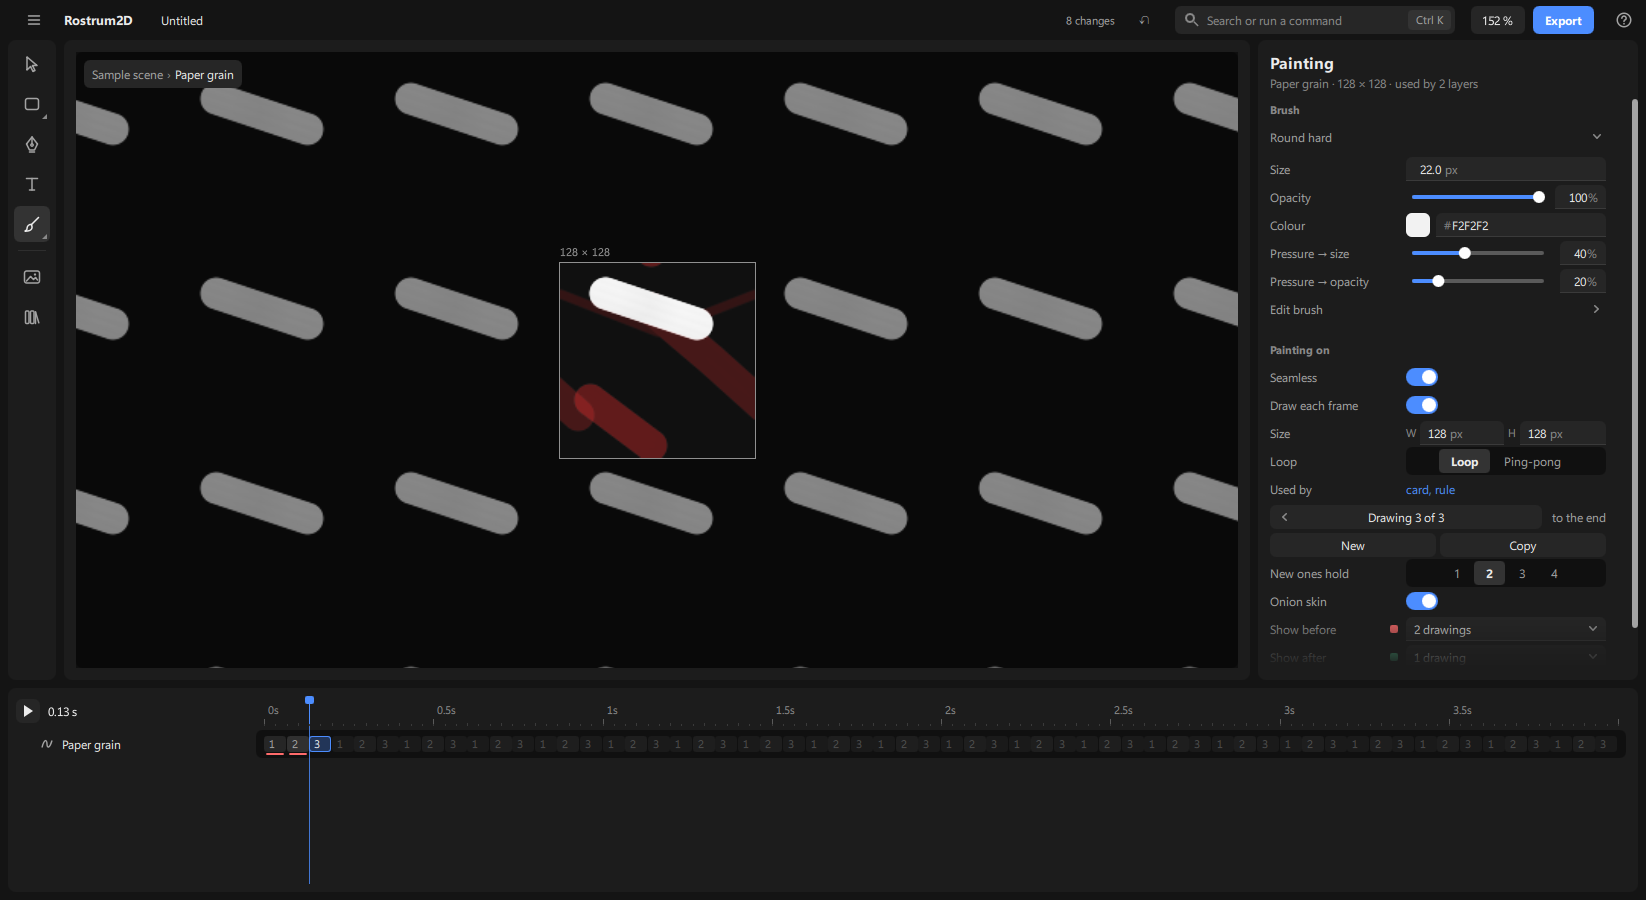
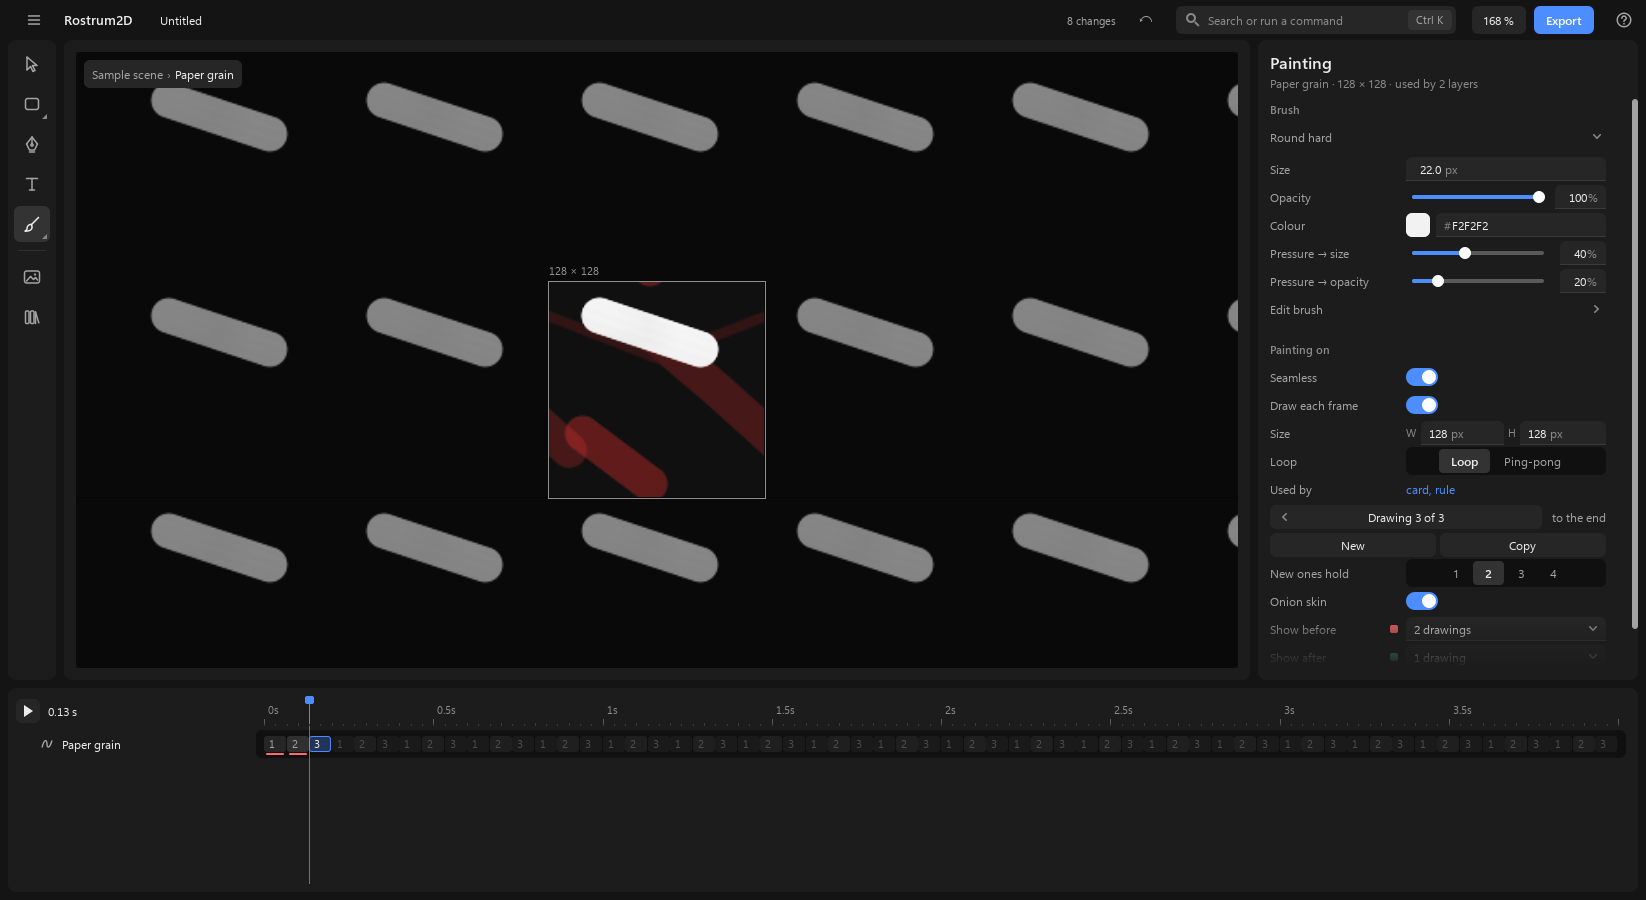
fix(2d, gui kit): a painting opened from the Library is fitted and centred in the canvas you can see, its path chip clear of the drawer and its long names end in …
The one fit (CanvasView) now keeps clear of a drawer lying over the canvas's left edge (AppShell.overLeft), for Ctrl+0, Shift+1, F and an opened painting alike; an opened painting also leaves room under its path chip. The settings panel's subtitle elides with the whole line on hover. Guides and their pictures updated.

diff --git a/apps/2d/screen/qml/Stage.qml b/apps/2d/screen/qml/Stage.qml
@@ -30,6 +30,7 @@ Rectangle {
     color: Theme.panel; radius: Theme.radiusPanel; clip: true
     objectName: "stage"                 // scripted steps reach the view through it (screen2d/view_steps.py)
     property bool typing: false         // a text field has the focus (Main.qml): single-letter view keys stay off
+    property real coverLeft: 0          // how far a drawer lies over this item's left edge (AppShell.overLeft): fits and the path chip keep clear of it
     // the context bar holds only what applies to picked strokes (StrokeBar.qml); no tool puts options or hints over the canvas
     readonly property bool strokesPicked: backend.tool === "draw" && backend.strokeSelect.count > 0
     readonly property var info: backend.frameInfo
@@ -49,8 +50,8 @@ Rectangle {
     // back to where it was when it closes
     readonly property bool opened: backend.opened.on
     property var viewBefore: null
-    function fitPainting() { const i = backend.opened.info, w = i.w || 1, h = i.h || 1
-                             if (i.seamless) view.fitBox(-w, -h, 2 * w, 2 * h); else view.fitBox(0, 0, w, h) }
+    function fitPainting() { const i = backend.opened.info, w = i.w || 1, h = i.h || 1, room = Theme.row + 4 * Theme.gap   // under the path chip and the size above it
+                             if (i.seamless) view.fitBox(-w, -h, 2 * w, 2 * h, room); else view.fitBox(0, 0, w, h, room) }
     onOpenedChanged: {
         if (opened) { viewBefore = { cx: view.cx, cy: view.cy, asked: view.asked, fitted: view.fitted }; fitPainting() }
         else if (viewBefore) { view.cx = viewBefore.cx; view.cy = viewBefore.cy; view.asked = viewBefore.asked
@@ -87,7 +88,7 @@ Rectangle {
         radius: Theme.radiusCtl; color: Theme.sunken
         clip: true
         readonly property bool drawing: backend.tool === "draw"
-        CanvasView { id: view; wellW: well.width; wellH: well.height; compW: panel.info.width || 1; compH: panel.info.height || 1
+        CanvasView { id: view; wellW: well.width; coverLeft: Math.max(0, panel.coverLeft - Theme.pad); wellH: well.height; compW: panel.info.width || 1; compH: panel.info.height || 1
                      dpr: Screen.devicePixelRatio }
 
         Item {  // world px from here: (0, 0) of the world at view.ox, oy; one world px is view.zoom screen px
@@ -423,7 +424,8 @@ Rectangle {
         ViewTools { anchors.fill: parent; view: view }   // H: drag moves the view; Z: click zooms in, Alt+click out
         Item { anchors.fill: parent; visible: !panel.opened
                FrameChip { world: worldFrame; onClicked: panel.fitAll() } }
-        PathChip { visible: panel.opened; anchors { left: parent.left; top: parent.top; margins: Theme.gap } }   // "Autumn menu › Paper grain"   // "‹ Frame": the frame is out of view; a click fits it
+        PathChip { visible: panel.opened; x: view.coverLeft + Theme.gap; y: Theme.gap   // "Autumn menu › Paper grain", right of any drawer, its long name ending in …
+                   room: well.width - x - Theme.gap }
         LookThrough { id: look; view: view }                         // "Through the frame ×", bottom-left, while on
         ContextBar {   // select, then act: the kit's bar at the top-centre (backend.actions);
                        // only while strokes are picked: what applies to them (StrokeBar.qml)

diff --git a/apps/2d/screen/qml/CanvasView.qml b/apps/2d/screen/qml/CanvasView.qml
@@ -13,7 +13,8 @@ QtObject {
     property real wellH: 0
     property real compW: 1
     property real compH: 1
-    property real top: 0                       // room kept clear above the frame at Fit (none in 2D: nothing floats there)
+    property real coverLeft: 0                 // a drawer over the well's left edge hides this much: fits use the rest (Stage: AppShell.overLeft)
+    property real top: 0                      // room kept clear above the frame at Fit (none in 2D: nothing floats there)
     readonly property real margin: 16
     readonly property real frameMargin: 24     // the frame fit's room round the frame (SPEC 2d-camera 4.1)
     readonly property real fitMost: 4          // F on a tiny layer stops at 400 % (the frame is drawn at most at Full)
@@ -37,10 +38,12 @@ QtObject {
         if (wellW <= 0 || wellH <= 0) return
         const x0 = r ? r.x0 : 0, y0 = r ? r.y0 : 0, x1 = r ? r.x1 : compW, y1 = r ? r.y1 : compH
         const w = Math.max(x1 - x0, 1), h = Math.max(y1 - y0, 1)
-        asked = clamp(Math.max(0.01, Math.min((wellW - 2 * frameMargin) / w, (wellH - 2 * frameMargin) / h)))
-        cx = (x0 + x1) / 2; cy = (y0 + y1) / 2
+        asked = clamp(Math.max(0.01, Math.min((wellW - coverLeft - 2 * frameMargin) / w, (wellH - 2 * frameMargin) / h)))
+        centreAt((x0 + x1) / 2, (y0 + y1) / 2)
         fitted = true
     }
+    // put composition point (x, y) in the middle of the part of the well no drawer covers
+    function centreAt(x, y, topRoom) { cx = x - coverLeft / 2 / asked; cy = y - (topRoom || 0) / 2 / asked }
     function fitEverything(r) { fitBox(r.x0, r.y0, r.x1, r.y1) }                  // Shift+1: every layer and the frame's path
     // zoom to `z`, keeping the composition point under (px, py) (well px) where it is
     function zoomAt(z, px, py) {
@@ -52,11 +55,11 @@ QtObject {
     function show(z) { zoomAt(z, wellW / 2, wellH / 2) }                       // keeps the centre
     function centreOn(x, y) { hold(); cx = x; cy = y }                           // composition px
     function panBy(dx, dy) { hold(); cx -= dx / zoom; cy -= dy / zoom }          // screen px
-    function fitBox(x0, y0, x1, y1) {                                            // composition px
+    function fitBox(x0, y0, x1, y1, topRoom) {                                   // composition px; topRoom: screen px kept clear above (a chip)
         const w = Math.max(x1 - x0, 1), h = Math.max(y1 - y0, 1)
         hold()
-        asked = clamp(Math.min((wellW - 2 * margin) / w, (wellH - 2 * margin) / h, fitMost))
-        cx = (x0 + x1) / 2; cy = (y0 + y1) / 2
+        asked = clamp(Math.min((wellW - coverLeft - 2 * margin) / w, (wellH - (topRoom || 0) - 2 * margin) / h, fitMost))
+        centreAt((x0 + x1) / 2, (y0 + y1) / 2, topRoom)
     }
     function step(dir) {                                                        // Ctrl+= / Ctrl+−: the next step
         const up = steps.filter(s => s > zoom * 1.001), down = steps.filter(s => s < zoom / 1.001)

diff --git a/apps/2d/screen/qml/PathChip.qml b/apps/2d/screen/qml/PathChip.qml
@@ -7,21 +7,21 @@ import RostrumKit
 Rectangle {
     id: chip
     readonly property var info: backend.opened.info
+    property real room: 10000                   // the most width the chip may take: the painting's name gives way
     width: row.width + 2 * Theme.gap; height: Theme.row
     radius: Theme.radiusCtl; color: Theme.raised
     Row {
         id: row
         x: Theme.gap; height: parent.height; spacing: Theme.grid
-        Text { objectName: "pathScene"; height: parent.height; verticalAlignment: Text.AlignVCenter
+        Text { id: scene; objectName: "pathScene"; height: parent.height; verticalAlignment: Text.AlignVCenter
                text: chip.info.scene || ""; color: back.containsMouse ? Theme.fg : Theme.fg2
                font.family: uiFont; font.pixelSize: Theme.body
                MouseArea { id: back; anchors.fill: parent; hoverEnabled: true; cursorShape: Qt.PointingHandCursor
                            onClicked: backend.opened.close() }
                HoverTip { hovered: back.containsMouse; text: "Back to the scene"; key: "Esc" } }
-        Text { height: parent.height; verticalAlignment: Text.AlignVCenter; text: "›"; color: Theme.fg3
+        Text { id: arrow; height: parent.height; verticalAlignment: Text.AlignVCenter; text: "›"; color: Theme.fg3
                font.family: uiFont; font.pixelSize: Theme.body }
-        Text { height: parent.height; verticalAlignment: Text.AlignVCenter; text: chip.info.name || ""; color: Theme.fg
-               font.family: uiFont; font.pixelSize: Theme.body; elide: Text.ElideRight
-               width: Math.min(implicitWidth, 320) }
+        NameLabel { height: parent.height; verticalAlignment: Text.AlignVCenter; text: chip.info.name || ""
+               width: Math.max(0, Math.min(implicitWidth, 320, chip.room - 2 * Theme.gap - scene.width - arrow.width - 2 * row.spacing)) }
     }
 }

diff --git a/shared/gui-kit/qml/RostrumKit/Inspector.qml b/shared/gui-kit/qml/RostrumKit/Inspector.qml
@@ -34,7 +34,8 @@ Panel {
 
     NameLabel { id: name; text: panel.bridge.selectedItem.label; font.pixelSize: Theme.heading; font.weight: Font.DemiBold
                 anchors.left: parent.left; anchors.right: parent.right }   // a long name, whole on hover
-    Text { id: kind; color: Theme.fg3; font.family: uiFont; font.pixelSize: Theme.body
+    NameLabel { id: kind; color: Theme.fg3
+           anchors.left: parent.left; anchors.right: parent.right     // a long line ends in … inside the panel, whole on hover
            readonly property bool same: panel.kindText.toLowerCase() === String(name.text || "").trim().toLowerCase()
            text: same ? "" : panel.kindText; visible: !same && panel.kindText !== ""
            height: !visible ? 0 : kindLine.height     // from the font, not implicitHeight: that one reads `height` back (binding loop)

diff --git a/shared/gui-kit/qml/RostrumKit/AppShell.qml b/shared/gui-kit/qml/RostrumKit/AppShell.qml
@@ -68,6 +68,9 @@ QQC.ApplicationWindow {
     property int timelineLeast: Theme.timeline
     property int frameFolded: -1
     signal layoutChanged()
+    // How far a left drawer (`leftOver`: the left panel, or the guides) reaches over the main view's left edge, from that
+    // edge: what a fit must keep clear so the frame is centred in the part you can see.
+    readonly property int overLeft: !leftOver ? 0 : guidesOpen ? guidesDrawer.width : leftSlot.width
     signal pressedIn(string area)                    // every press anywhere, with its area ("left", "right", "bottom"…): an app ends a typing on it
     property int askedRev: 0                       // bumps when a hand size changes (panelSizes is not a binding)
     function asked(kind, panel) { askedRev; return typeof panelSizes !== "undefined" ? panelSizes.get(kind, panel) : -1 }

diff --git a/apps/2d/screen/qml/Main.qml b/apps/2d/screen/qml/Main.qml
@@ -162,7 +162,7 @@ AppShell {
     DepthPopover { x: (shell.width - width) / 2; y: 104 }     // Set depth ▾ › Other depth… (depth_typed.py): under the bar
     SoundCuePopover { x: (shell.width - width) / 2; y: 104 }  // Add a sound here… (sound_cue_pick.py): under the bar
     centre: [
-        Stage { id: stage; anchors.fill: parent; typing: shell.typing },   // typing: F stays a letter (ViewControls.qml)
+        Stage { id: stage; anchors.fill: parent; typing: shell.typing; coverLeft: shell.overLeft },   // typing: F stays a letter (ViewControls.qml)
         ImportPanel {   // opened by the rail's Media › Import…, on the canvas (opening the Export sheet closes it)
             id: importPanel
             Connections { target: backend.importer; function onWantPanel() { shell.setImportOpen(true) } }

diff --git a/apps/2d/guides/the-screen.md b/apps/2d/guides/the-screen.md
@@ -36,7 +36,7 @@ A tour of the window, from the top and round the edges. There is one workspace: 
    The tool you pick changes what the mouse does and what the right-hand panel shows. **Esc** steps back one level, down to Select.
    - **Drawing a shape:** press R or O (or pick a shape in the Shapes panel), then drag on the picture where it goes. A line or an arrow is dragged from its start to its end. A small label shows its size as you drag. Hold **Shift** for a square or a circle, **Alt** to draw out from the centre. A click without dragging makes a 200 × 200 shape there. The new shape starts light grey (never the blue of the selection, so a picked thing always shows on it) and is picked, and the tool goes back to Select. Every picked thing is outlined in the accent colour with a thin dark edge on both sides, so the box and its handles show on any colour, blue included. It is one step. Its **Shape** setting changes it into another kind afterwards, and each kind shows only its own settings (a star has **Points** and **Inner radius**).
    - **Text:** press T, click where the words go (they grow as you type) or drag a box (they wrap inside it), and type. **Enter** starts a new line; **Esc** or **Ctrl+Enter** ends, as does a click anywhere outside the text (the settings panel, the timeline, the picture), and the text stays picked. All the typing is one step, so **Ctrl+Z** takes back the whole text. From the first letter the settings panel shows the new text's **font**, **size**, **weight** and **colour**; nothing pops up over the canvas. **Double-click** a text with Move to type in it again.
-   - **Zoom and move around:** **Ctrl+wheel** zooms in and out around the pointer; the wheel scrolls (with **Shift**: sideways); hold **Space** and drag, or drag with the middle button, to move the view. **Ctrl+0** fits the frame (the box that becomes your video), **Shift+1** fits everything (every layer, and everywhere the frame travels), **Ctrl+1** shows the picture at 100 %, **F** fits what is picked, **Ctrl+=** and **Ctrl+−** zoom a step. The **Fit · 53 % ▾** control in the top bar shows the zoom and has the same choices (**Fit the frame**, **Fit everything**, the percentages). Zooming is only your view: it is never a change and never undone. The picture is always drawn sharp at the size you see it.
+   - **Zoom and move around:** **Ctrl+wheel** zooms in and out around the pointer; the wheel scrolls (with **Shift**: sideways); hold **Space** and drag, or drag with the middle button, to move the view. **Ctrl+0** fits the frame (the box that becomes your video), centred in the part of the canvas you can see when the Library lies over its left side, **Shift+1** fits everything (every layer, and everywhere the frame travels), **Ctrl+1** shows the picture at 100 %, **F** fits what is picked, **Ctrl+=** and **Ctrl+−** zoom a step. The **Fit · 53 % ▾** control in the top bar shows the zoom and has the same choices (**Fit the frame**, **Fit everything**, the percentages). Zooming is only your view: it is never a change and never undone. The picture is always drawn sharp at the size you see it.
    - **The frame and the world around it:** the canvas is the whole world, not just the video. The frame is the part that is exported. It has a thin light outline, and everything outside it is dimmed, so you can see what is in the video and what waits just off its edge. A small tab over the outline's top-left corner names it with its size (**Frame · 1920 × 1080**), or with its zoom once the frame is zoomed (**Frame · 1.4×**). If the frame is turned, the outline and tab turn with it. When you scroll or zoom the frame completely out of view, a small **‹ Frame** chip appears on the edge it lies beyond (the arrow points the way); click it to bring the frame back into view.  The chip never moves the view on its own. Things outside the frame are a normal place to work: lay out the next shot beside the frame, and nothing calls them a problem. **Shift+C** (or **Look through the frame** in the **Fit · 53 % ▾** menu) looks through the frame: the canvas fits the frame and shows exactly the video, nothing outside it, with a small **Through the frame ×** label at its bottom-left (click the × or press Shift+C again to go back). You can still pick, drag, type and paint there; the frame has no handles while you look through it, and scrubbing follows its move. While the project plays, the canvas always looks through the frame; when it stops, your view comes back as you left it (where you had scrolled, at the same zoom). Looking through is only your view, never a change.
 
      ![The view panned away from the frame: the ‹ Frame chip at the left edge](pictures/frame-world-panned.png)

diff --git a/apps/2d/guides/drawing.md b/apps/2d/guides/drawing.md
@@ -165,7 +165,7 @@ On the screen:
    ![Seamless on: a stroke leaving card 2 on the right comes back on its left, on every card using the painting](pictures/paint-in-place-seamless.png)
 
    ![Painting the shared painting on card 2: the stroke shows on all three cards, the other two dotted](pictures/paint-in-place.png)
-5. **Open it on its own, for tiling work (1 click):** click the **↗** button on the painting's row in the Library (or right-click it › **Open**). The canvas shows the painting alone in the middle with its size above it; a seamless one shows its repeats all round, a little darker, so you see how it tiles, and a stroke that leaves an edge comes back on the opposite side as you paint. You paint, fill, erase and select strokes on it as on a drawing. The settings panel shows the brush, then **Seamless**, **Draw each frame**, **Size** (W, H: strokes keep their place from the top-left), **Loop** (Loop or Ping-pong, while it draws each frame) and **Used by** (click a name to go back with that layer picked). The timeline shows the painting's one row, with its drawings as cells when it draws each frame, and the onion skin works as on a drawing. The chip at the top left says where you are, "Sample scene › Paper grain": click the scene's name, or press **Esc**, to go back to the scene, with what you had picked and the tool you had.
+5. **Open it on its own, for tiling work (1 click):** click the **↗** button on the painting's row in the Library (or right-click it › **Open**). The canvas shows the painting alone, fitted and centred in the part of the canvas you can see (the open Library does not hide it), with its size above it; a seamless one shows its repeats all round, a little darker, so you see how it tiles, and a stroke that leaves an edge comes back on the opposite side as you paint. You paint, fill, erase and select strokes on it as on a drawing. The settings panel shows the brush, then **Seamless**, **Draw each frame**, **Size** (W, H: strokes keep their place from the top-left), **Loop** (Loop or Ping-pong, while it draws each frame) and **Used by** (click a name to go back with that layer picked). The timeline shows the painting's one row, with its drawings as cells when it draws each frame, and the onion skin works as on a drawing. The chip at the top left of the visible canvas says where you are, "Sample scene › Paper grain" (a long painting name ends in …): click the scene's name, or press **Esc**, to go back to the scene, with what you had picked and the tool you had.
 
    ![A seamless painting opened on its own: its repeats round it, a stroke crossing the right edge coming back on the left](pictures/painting-opened.png)
 
